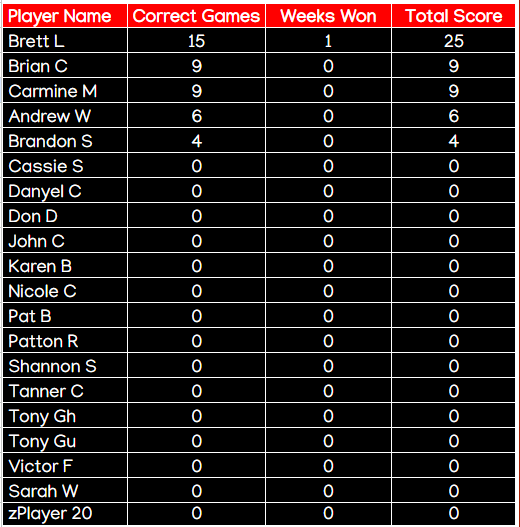
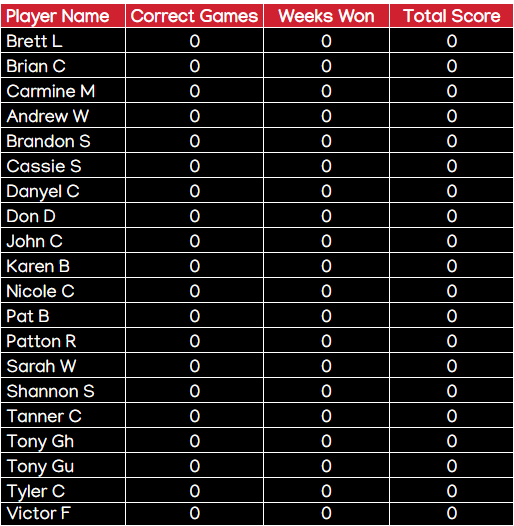
Pre-Season Week 1 setup

Changed region(s): [[0.0, 0.0, 1.0, 1.0]]

diff --git a/pages/nflpool.html b/pages/nflpool.html
@@ -106,19 +106,23 @@
         <h1>NFL GameDay!</h1>
         <div class="submit-picks-highlight d-flex align-items-center justify-content-center mb-0">
           <i class="fas fa-angle-double-right arrow-icon"></i>
+
+          <!--REMOVE "disabled" TO ACTIVATE BUTTON. ADD BACK IN TO DEACTIVEATE
+          BUTTON ENABLED:  class="btn nfl-btn">
+          BUTTON DISABLED:  class="btn nfl-btn disabled"-->
           <a href="https://forms.gle/JzKvcxXrCzPQGc7t5" class="btn nfl-btn" target="_blank">Submit Picks</a>
 
           <!--REMOVE "disabled" TO ACTIVATE BUTTON. ADD BACK IN TO DEACTIVEATE
-          BUTTON ENABLED:  class="btn nfl-btn ml-3">
-          BUTTON DISABLED:  class="btn nfl-btn ml-3" disabled>-->
-          <button id="toggle-picks-btn" class="btn nfl-btn ml-3">Show Player Picks</button>
+          BUTTON ENABLED:  class="btn nfl-btn">
+          BUTTON DISABLED:  class="btn nfl-btn" disabled>-->
+          <button id="toggle-picks-btn" class="btn nfl-btn" disabled>Show Player Picks</button>
           <i class="fas fa-angle-double-left arrow-icon"></i>
           
         </div>
       </div>
 
       <div class="text-center mb-0">
-        <a href="https://www.google.com/search?q=nfl+schedule#sie=lg;/g/11lyp42zk1;6;/m/059yj;mt;fp;1;;;" class="btn nfl-btn d-inline-flex flex-column align-items-center" target="_blank">
+        <a href="https://www.nfl.com/schedules/" class="btn nfl-btn d-inline-flex flex-column align-items-center" target="_blank">
           <span>2025 NFL Schedule</span>
           <small>(opens new window)</small>
         </a>
@@ -133,12 +137,12 @@
       </div>
 
       <section id="live-matchups" class="nfl-section nfl-matchups text-center">
-        <h1>This Week's Matchups</h1>
+        <h1>Pre-Season Week 1 Matchups</h1> <!--This Week's Matchups-->
         <div id="matchup-table-container" class="table-responsive mt-0 loading-placeholder">Loading matchups...</div>
       </section>
 
       <section id="live-results" class="nfl-section nfl-results text-center">
-        <h1>This Week's Results</h1>
+        <h1>PreSeason Week 1 Results</h1> <!--This Week's Results-->
         <div id="results-table-container" class="table-responsive mt-0 loading-placeholder">Loading results...</div>
       </section>
 
@@ -154,7 +158,7 @@
           <!-- Season Standings -->
           <!-- Previous Week Player Results -->
           <div class="col-md-6 col-12 mb-4">
-            <h1>Cumulative Scoring</h1>
+            <h1>Pre-Season Scoring</h1><!--Cumulative Scoring-->
             <div id="cumulative-scoring-table-container" class="table-responsive mt-0 loading-placeholder">
               <img src="/assets/images/CumScores.png" style="width: 100%; max-width: 400px; height: auto;">
               <!-- Cumulative Scoring table will be injected here by JS -->
@@ -162,7 +166,7 @@
             </div>
           </div>
           <div class="col-md-6 col-12 mb-4">
-            <h1>Player Rankings</h1>
+            <h1>Pre-Season Player Rankings</h1><!--Player Rankings-->
             <div id="standings-table-container" class="table-responsive mt-0 loading-placeholder">Loading Rankings...</div>
           </div>
 
@@ -170,7 +174,7 @@
       </section>
 
       <section id="player-picks" class="nfl-section text-center" style="display: none;">
-        <h1>Player Picks for Current Week</h1>
+        <h1>Player Picks for Pre-Season Week 1</h1><!--Player Picks for Current Week-->
         <div id="player-picks-table-container" class="table-responsive mt-0 loading-placeholder">Loading player picks...</div>
       </section>
     </div>

diff --git a/scripts/nflpool-data.js b/scripts/nflpool-data.js
@@ -6,7 +6,8 @@ document.addEventListener("DOMContentLoaded", function () {
   const sections = [
     { action: "matchups", containerId: "matchup-table-container" },
     { action: "results", containerId: "results-table-container" },
-    { action: "standings", containerId: "standings-table-container" }
+    { action: "standings", containerId: "standings-table-container" },
+    
   ];
 
 // Fetch just the Week title from Matchups for top display
@@ -29,19 +30,32 @@ fetch(`${baseURL}?action=matchups`)
 
   sections.forEach(({ action, containerId }) => {
     const container = document.getElementById(containerId);
+
     fetch(`${baseURL}?action=${action}`)
       .then(res => res.json())
       .then(data => {
         container.innerHTML = "";
 
-        const table = buildTable(data.headers, data[action]);
+        /* ---------- CumScores needs Rank column ---------- */
+        let headers = data.headers;
+        let rows    = data[action];            // "cumscores" for this section
+
+        if (action === "cumscores") {
+          headers = ["Rank", ...headers];
+          rows    = rows.map((r, i) => ({ Rank: i + 1, ...r }));
+        }
+        /* -------------------------------------------------- */
+
+        const table = buildTable(headers, rows);
         container.appendChild(table);
       })
       .catch(err => {
         console.error(`❌ Error loading ${action}:`, err);
-        container.innerHTML = `<p class="text-danger">Failed to load ${action}.</p>`;
+        container.innerHTML =
+          `<p class="text-danger">Failed to load ${action}.</p>`;
       });
   });
+
 
   const picksButton = document.getElementById("toggle-picks-btn");
   const picksSection = document.getElementById("player-picks");

diff --git a/css/site.css b/css/site.css
@@ -289,6 +289,7 @@ img {
   color: white;
   font-weight: bold;
   margin: 0.5rem;
+  padding-top: 10px;
 }
 
 .nfl-section {
